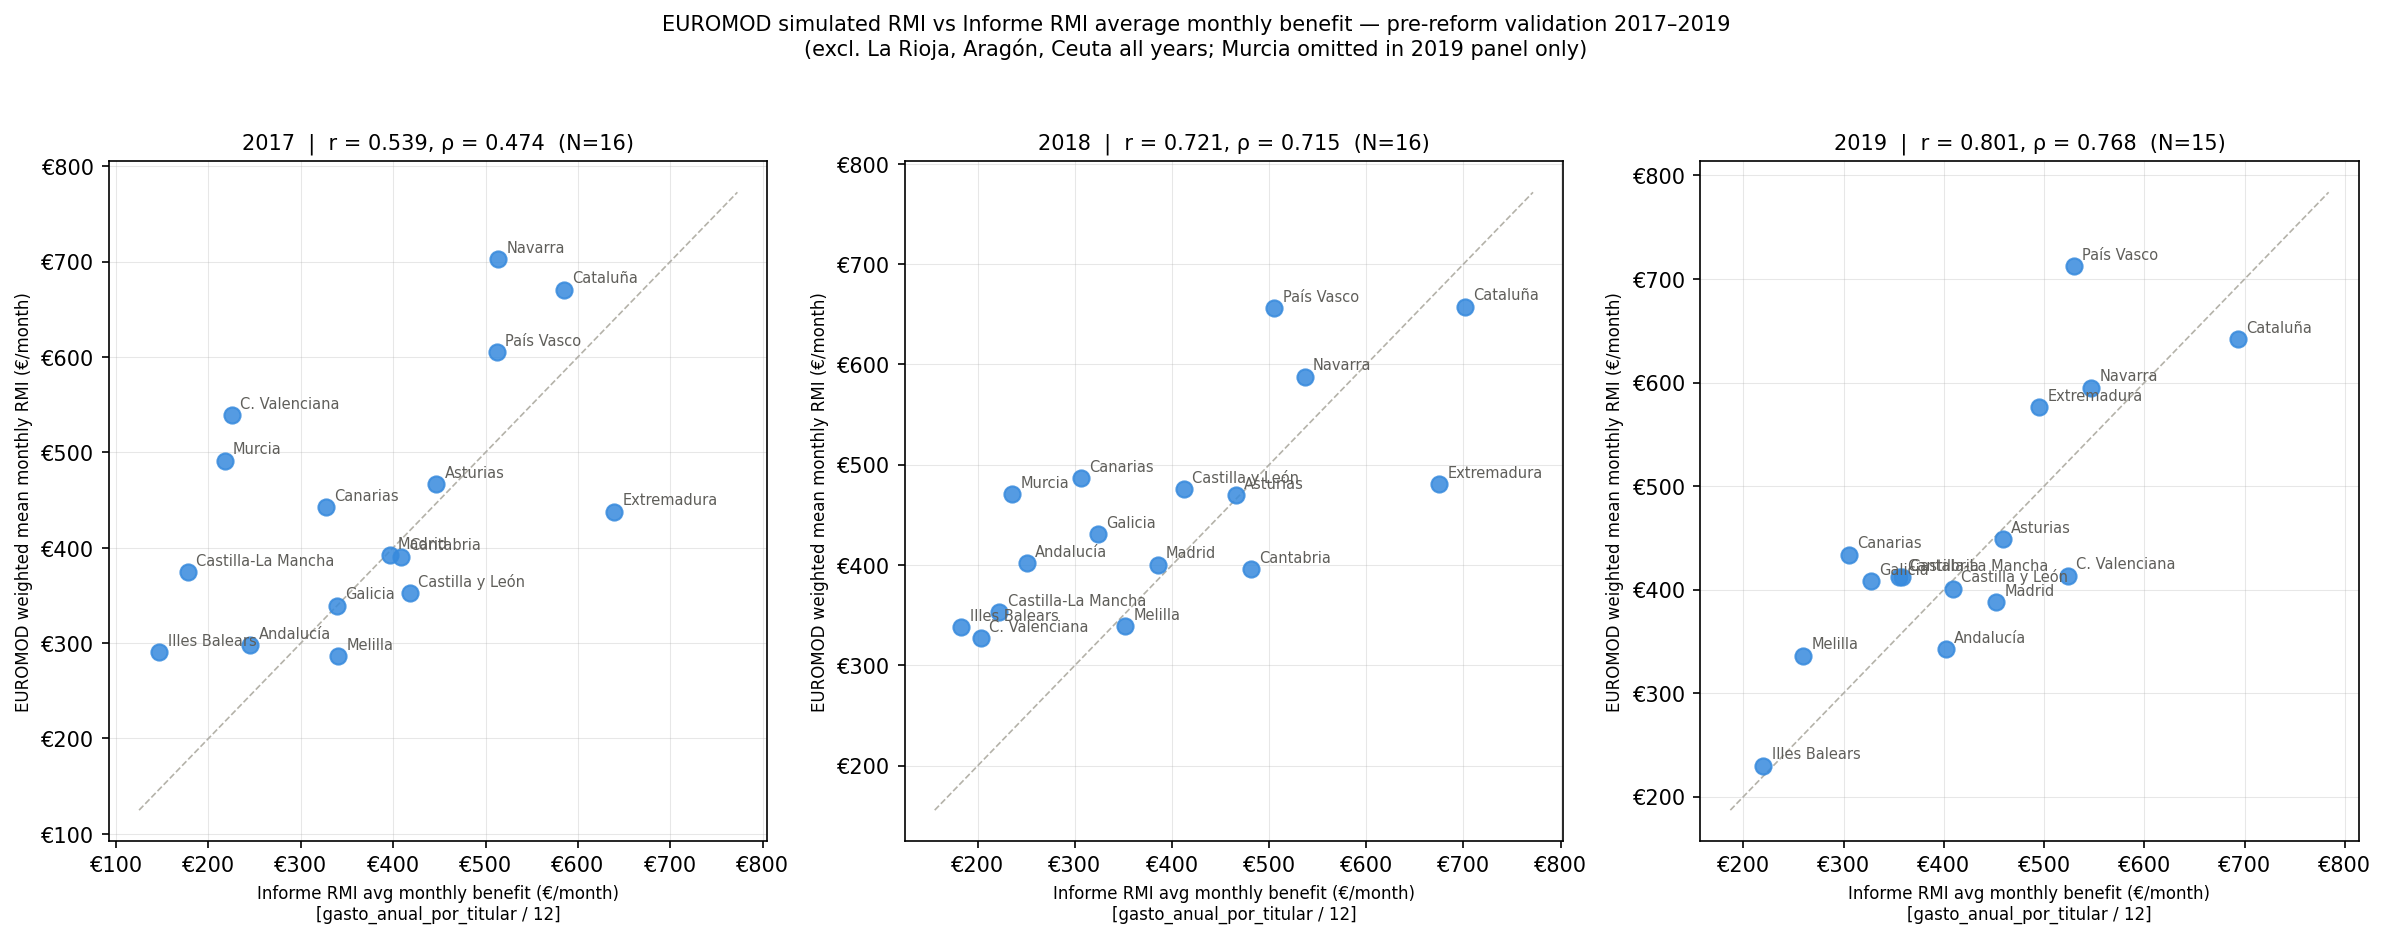
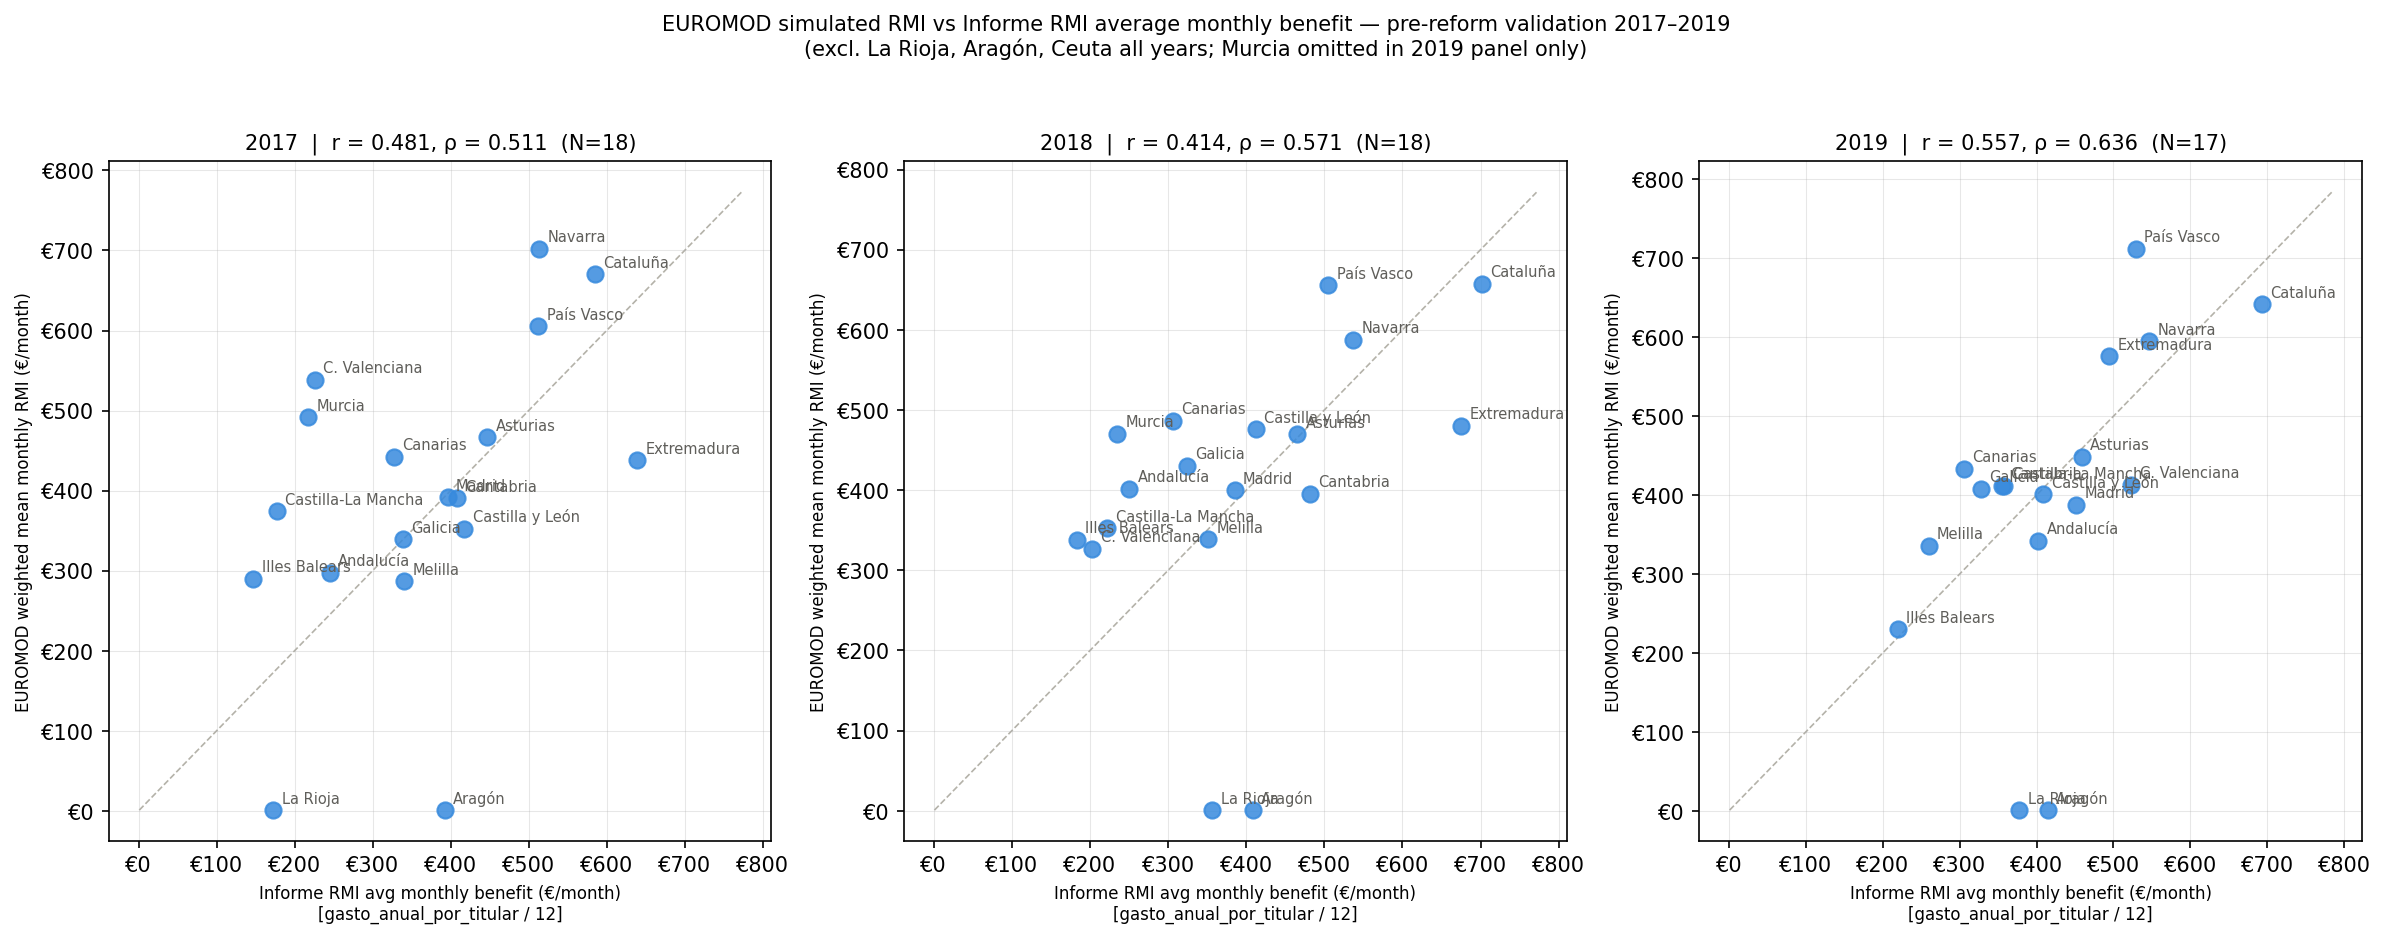
I ran again the validation steps

diff --git a/RMIeuromod_validation.py b/RMIeuromod_validation.py
@@ -60,7 +60,7 @@ EUROMOD_FILES = {
 }
 
 # Excluded from all years — see module docstring
-EXCLUDE_REGIONS: set[int] = {23, 24, 63}
+EXCLUDE_REGIONS: set[int] = {63}
 
 SAVE_CSV = True  # set False to skip CSV export
 
